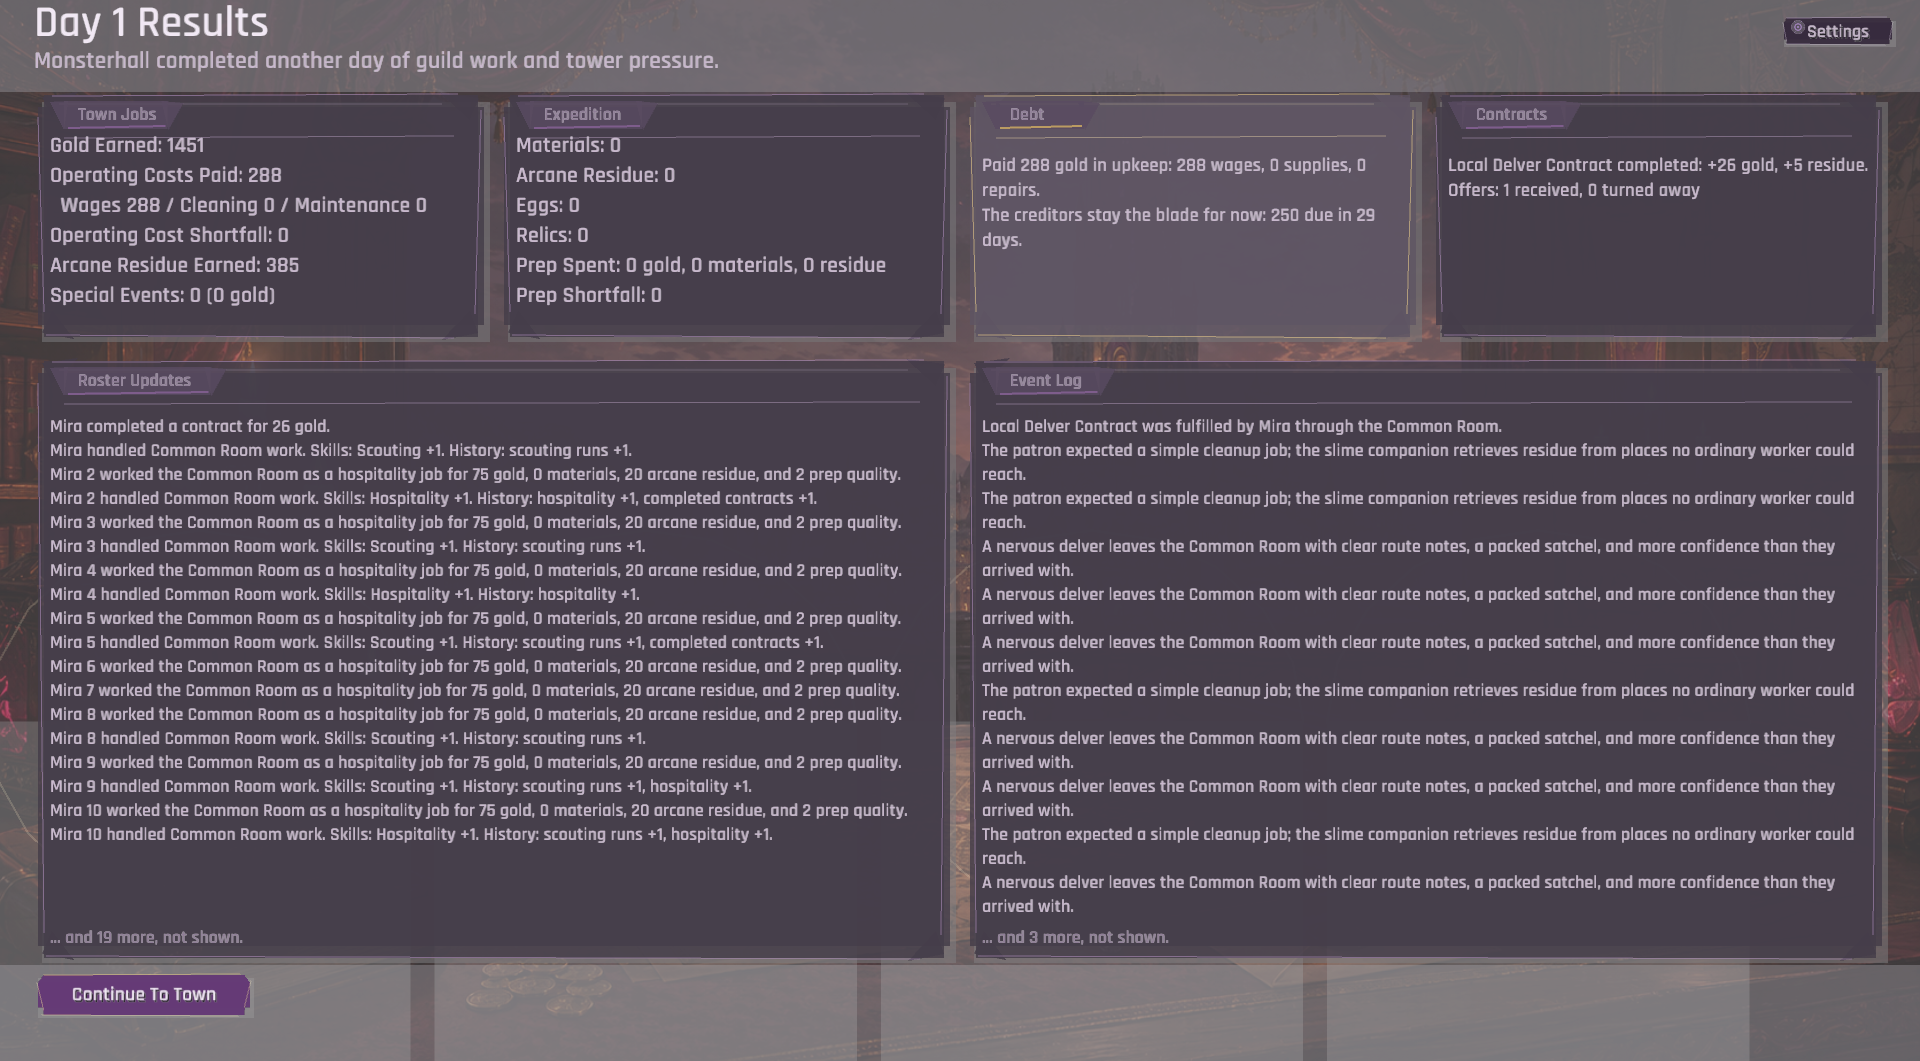
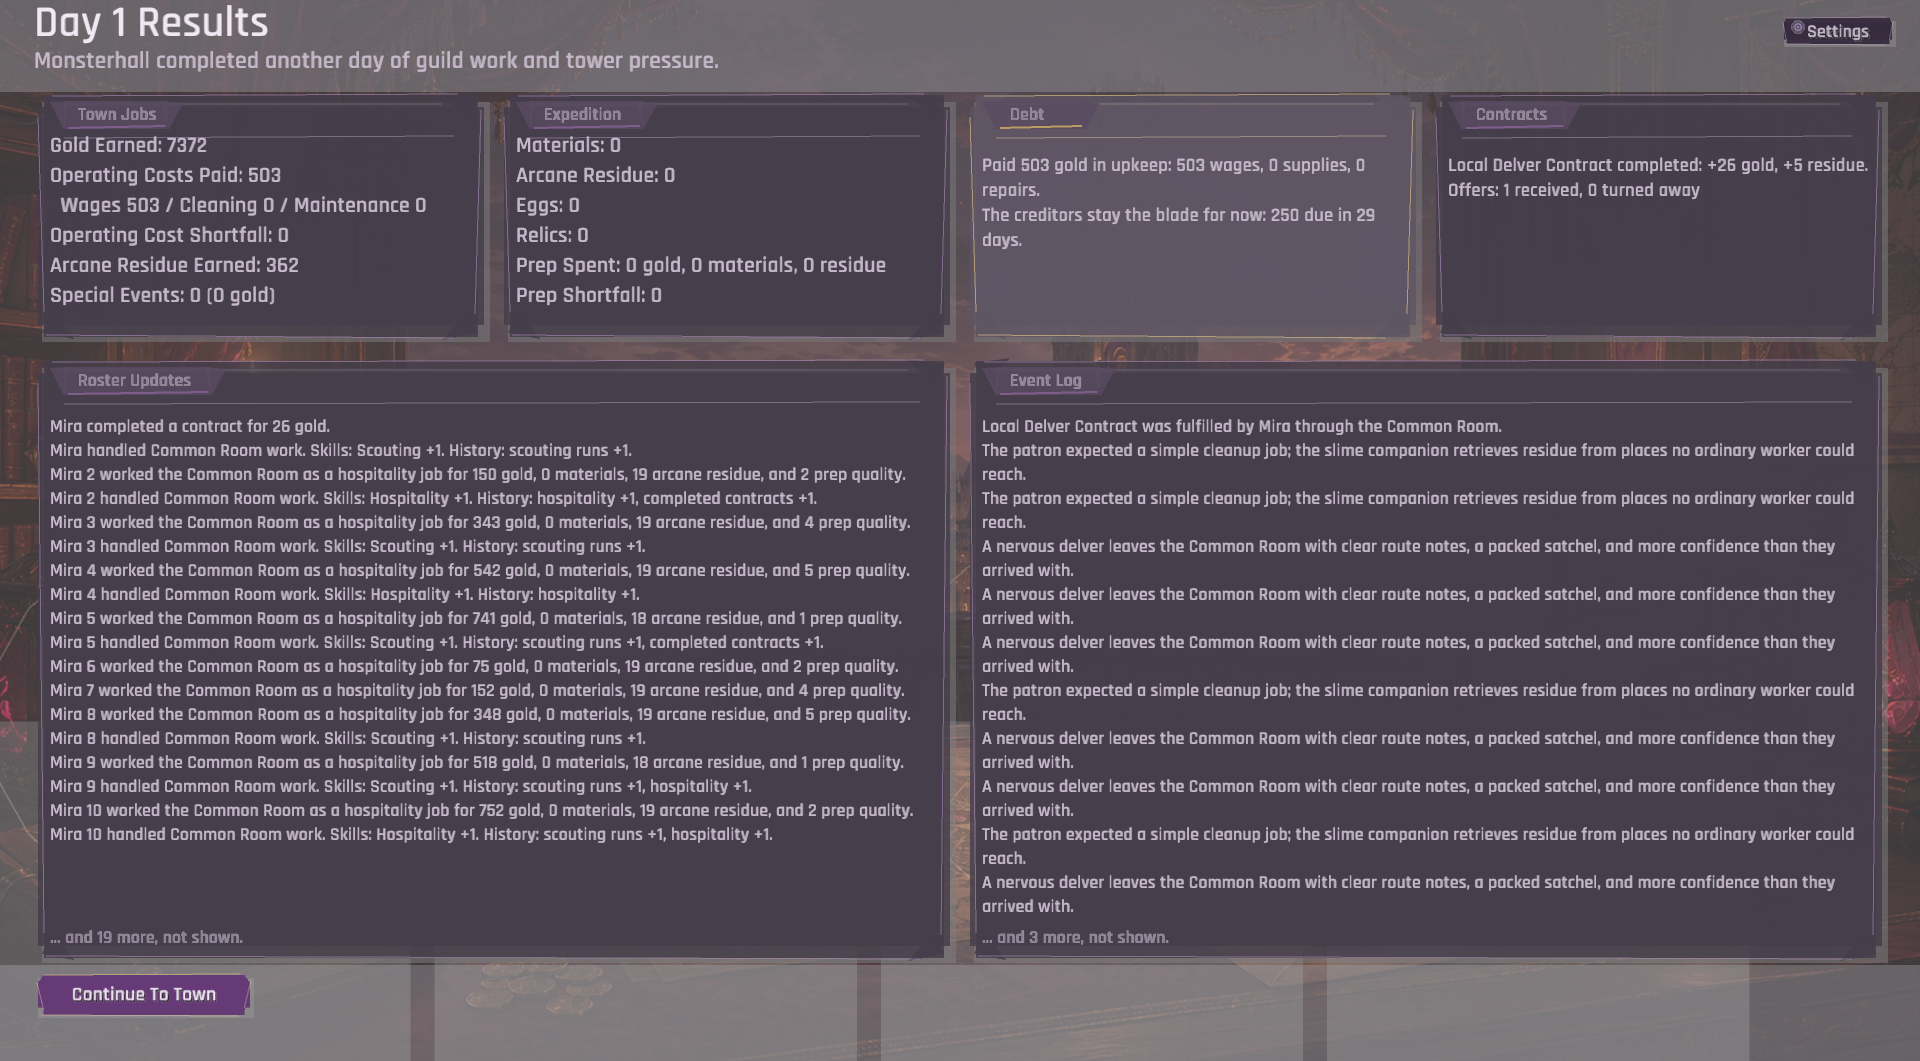
Ten cards said "Score" and did not say what the score was
The harness fills the roster with a varied guild now, so the crowded
screens were worth re-reading. Two of the four screens a player assigns
from were telling them nothing they could choose on.

Every worker card on Guild Jobs ended in the word "Score" with no number
after it. The line led with gold, materials and residue; the box holds
about thirty characters, and `draw_body_text_in_box` drops whole words
past that without leaving a mark. At a late-campaign purse the last token
fell off every card. A label with no value does not read as truncation,
it reads as a number the game failed to compute — and it was the number
that screen exists to compare companions by. The line leads with the
score now, and what can still fall off the end is the residue and
materials tail, which the room panel above reports in full.

The Expedition Desk's team card carried one figure: "Instability 0".
Instability is the one number a run does not turn on, so twenty
companions drew as twenty identical cards on the screen whose entire job
is deciding who goes down the tower, with seven hundred pixels of empty
line beside the useless one. It reads "comfort specialist | Pow 3 End 7
Ins 2 | Instability 0" now — her role against the mission's preferred
one, power for materials, endurance for coming back unhurt, instinct for
residue, and a worn note when her condition is costing the guild
something. Her rank sits beside the species, because a floor's roster
[…]

diff --git a/src/ui/screens/expedition_planning.rs b/src/ui/screens/expedition_planning.rs
@@ -23,7 +23,9 @@ use crate::ui::screens::roster_window::{
     draw_roster_pager, roster_panel_height, RosterWindow, ROSTER_COLUMNS,
 };
 use crate::ui::theme;
-use crate::ui::view_models::{assignment_label, species_name_by_id};
+use crate::ui::view_models::{
+    assignment_label, monster_depth_role_label, monster_quality_label, species_name_by_id,
+};
 
 /// Top of the first floor row, just below the floors panel title.
 const FLOORS_FIRST_ROW_Y: f32 = 134.0;
@@ -555,8 +557,37 @@ pub fn draw_expedition_planning(
             } else {
                 assignment_label(data, &monster.current_job)
             };
-            let species_label = compact_text(&species_name_by_id(data, &monster.species_id), 18);
-            let key_value = format!("Instability {}", monster.corruption);
+            let species_label = format!(
+                "{} | {}",
+                compact_text(&species_name_by_id(data, &monster.species_id), 18),
+                monster_quality_label(data, monster)
+            );
+            // This card carried one figure — her instability — on the screen
+            // whose entire job is choosing who goes down the tower, and
+            // instability is the one number a run does not turn on. Twenty
+            // companions read as twenty identical cards.
+            //
+            // What a run actually turns on: her role against the mission's
+            // preferred one, power for materials, endurance for coming back
+            // unhurt, instinct for residue, and how worn she already is. Her
+            // rank moved up beside the species, because a floor's
+            // `required_roster` is written in stars.
+            let stats = crate::engine::effective_stats(data, monster);
+            let effectiveness = crate::engine::companion_effectiveness(data, monster);
+            let condition_note = if effectiveness < 100 {
+                format!(" | Worn {effectiveness}%")
+            } else {
+                String::new()
+            };
+            let key_value = format!(
+                "{} | Pow {} End {} Ins {}{} | Instability {}",
+                monster_depth_role_label(data, monster),
+                stats.power,
+                stats.endurance,
+                stats.instinct,
+                condition_note,
+                monster.corruption,
+            );
             let card = draw_character_card(
                 data,
                 monster,

diff --git a/src/ui/screens/guild_hall_management_sections.rs b/src/ui/screens/guild_hall_management_sections.rs
@@ -393,20 +393,26 @@ fn draw_worker_cards(
                 } else {
                     String::new()
                 };
-                // The card is narrow and this line grew twice — the condition
-                // note and the work-history odds both landed here. Shortened so
-                // the tail is not cut off mid-word.
-                // The work-history odds are a property of the room, and the room
-                // panel already shows them — repeating them per companion is
-                // what pushed this line past the card's edge.
+                // Ordered by what the player is deciding with, because the box
+                // holds about thirty characters and `draw_body_text_in_box`
+                // drops whole words past that without a mark. Score used to sit
+                // last: at a late-campaign purse the line ran one token over
+                // and every card in the capture read "... | Prep 1 | Score"
+                // with the number gone — which reads as a missing value, not as
+                // truncation, on the number the whole screen exists to compare.
+                //
+                // What can still fall off the end is the residue and materials
+                // tail, and that is deliberate: those are room-wide figures the
+                // panel above already reports in full, while score, gold, prep
+                // and the condition warning are per-companion.
                 format!(
-                    "{}g / {}m / {}r | Prep {} | Score {}{}",
-                    value.projected_gold,
-                    value.projected_materials,
-                    value.projected_arcane_residue,
-                    value.preparation_quality,
+                    "Score {} | {}g | Prep {}{} | {}r {}m",
                     value.success_score,
+                    value.projected_gold,
+                    value.preparation_quality,
                     condition_note,
+                    value.projected_arcane_residue,
+                    value.projected_materials,
                 )
             })
             .unwrap_or_else(|| {

diff --git a/TODO.md b/TODO.md
@@ -212,6 +212,42 @@ mutation and the check names golemkin).
   is a `corruption_adept` exactly like the warden she replaces. Variety means a
   different *role*, not a different name.
 
+### Found by review, not by the audit (2026-08-03, twenty-fourth pass)
+
+Re-read the crowded screens now that the harness fills the roster with a *varied*
+guild rather than twenty clones. Two of the four assignment screens were telling
+the player nothing they could choose on.
+
+- ~~Every worker card on the Guild Jobs screen ended in the word "Score" with no
+  number.~~ Fixed. The line ran `{gold}g / {materials}m / {residue}r | Prep {n} |
+  Score {n}`, and the box holds about thirty characters —
+  `draw_body_text_in_box` drops whole words past that without a mark, so at a
+  late-campaign purse the last token fell off and ten cards read *"… | Prep 4 |
+  Score"*. A label with no value reads as a missing number rather than as
+  truncation, on the number that screen exists to compare. Reordered to
+  `Score 114 | 343g | Prep 4 | 19r 0m`: what can still fall off the end is the
+  residue/materials tail, which the room panel above reports in full, while
+  score, gold, prep and the worn warning are per-companion.
+
+- ~~The Expedition Desk's team card carried one figure: "Instability 0".~~ Fixed.
+  Instability is the one number a run does *not* turn on, so twenty companions
+  read as twenty identical cards on the screen whose entire job is choosing who
+  goes down the tower — with about seven hundred pixels of empty line beside it.
+  It now reads `comfort specialist | Pow 3 End 7 Ins 2 | Instability 0`, which is
+  what the engine actually scores: role against the mission's preferred one,
+  power for materials, endurance for coming home unhurt, instinct for residue,
+  plus a worn note when condition is costing her. **Her rank moved up beside the
+  species**, because a floor's `required_roster` is written in stars and the card
+  did not say which star she was.
+
+- **Checked and clean this pass, so they are not re-read blind**: the day-results
+  panels fill and count their overflow correctly with a working guild
+  (*"… and 19 more, not shown"*); the profile's Core Stats band shows all four
+  stats including instinct; the town roster cards hold a varied roster without
+  overflow.
+
+- **Balance byte-identical**; no data file changed, so no version stamp moved.
+
 ### Found by review, not by the audit (2026-08-03, twenty-third pass)
 
 Took the slice the last pass wrote down, and the harness turned out to be half

diff --git a/loop.md b/loop.md
@@ -1477,6 +1477,32 @@ Stop the loop and report if:
   completion in it; (c) untaken slices unchanged: `ui_text` migration, unbounded event
   log, corruption's missing relief path.
 
+- **2026-08-03 — twenty-fourth pass (two assignment screens with nothing to choose
+  on).** Took the previous pass's note and re-read the crowded captures now that the
+  harness fills the roster with a *varied* guild. Two finds, both on screens whose whole
+  job is picking a companion. **Guild Jobs**: every worker card ended in the word
+  "Score" with no number — the line ran gold/materials/residue first and the box holds
+  about thirty characters, so at a late-campaign purse `draw_body_text_in_box` dropped
+  the last token without a mark, and a label with no value reads as a missing number
+  rather than as truncation. Reordered to `Score 114 | 343g | Prep 4 | 19r 0m`, so what
+  can still fall off the end is the room-wide tail the panel above reports in full.
+  **Expedition Desk**: the team card's only figure was `Instability 0` — the one number
+  a run does not turn on — so twenty companions read as twenty identical cards with
+  ~700px of empty line beside them. Now `comfort specialist | Pow 3 End 7 Ins 2 |
+  Instability 0`, which is what the engine scores, with her **rank beside the species**
+  because a floor's `required_roster` is written in stars.
+  **Result:** 130 tests, fmt and clippy clean, publish green, **balance byte-identical**
+  and no data file changed, so no version stamp moved. Checked and clean: day-results
+  panels fill and count their overflow with a working guild, the profile's Core Stats
+  band shows all four stats, the town roster holds a varied roster without overflow.
+  **Next iteration should know:** (a) the varied-roster lens is now spent on the four
+  assignment screens; what it has *not* been pointed at is a roster of mixed **species**
+  — the harness clones one species twenty times, so every card still says "Slime
+  Companion" and anything that varies by species (portraits, wage, role, floor gates)
+  photographs identical; (b) both lines fixed here are hardcoded English, part of the
+  recorded `ui_text` migration; (c) the day-results screen has still never been
+  photographed with a **partial** contract completion in it.
+
 ## Deferred (needs a new system or a decision; not for this loop)
 
 - **Make the validation policy's build order a plan rather than a shopping list.** Measured and
